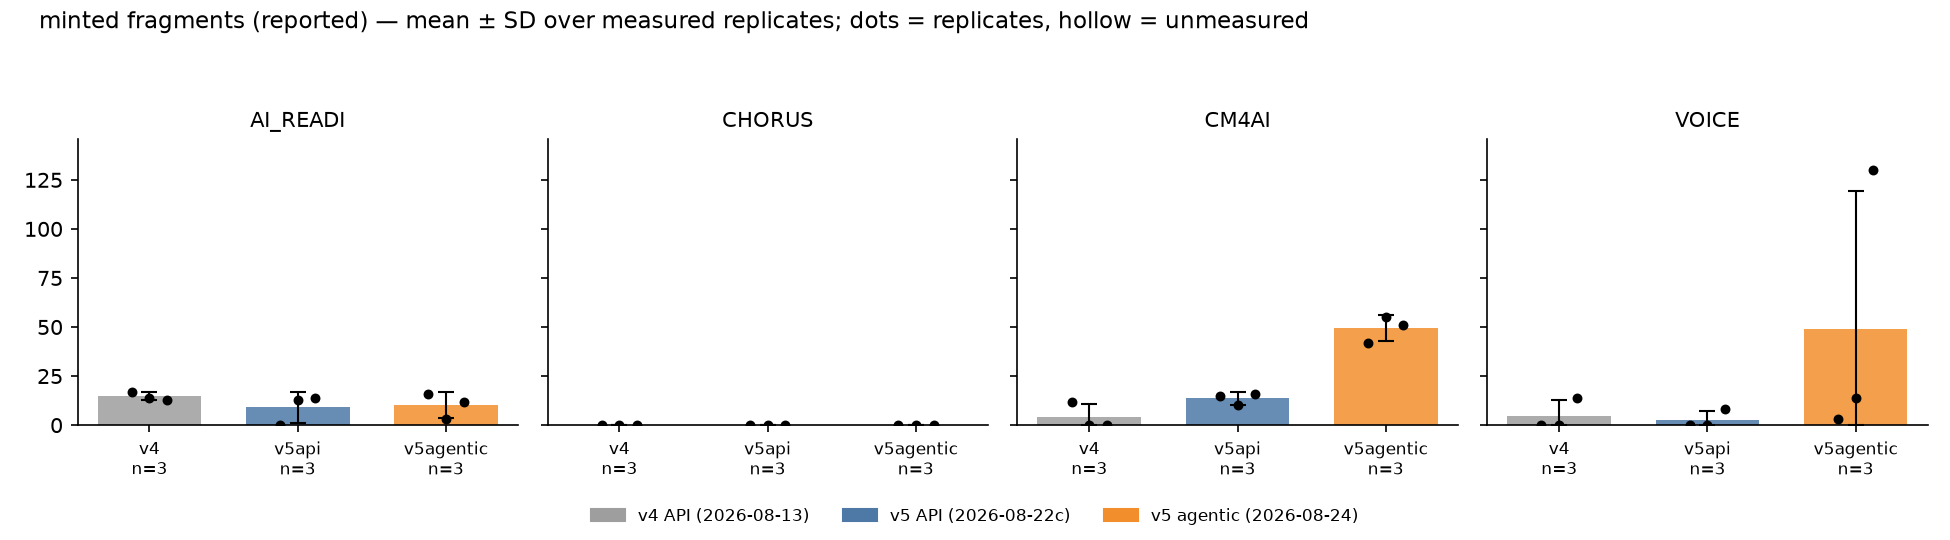
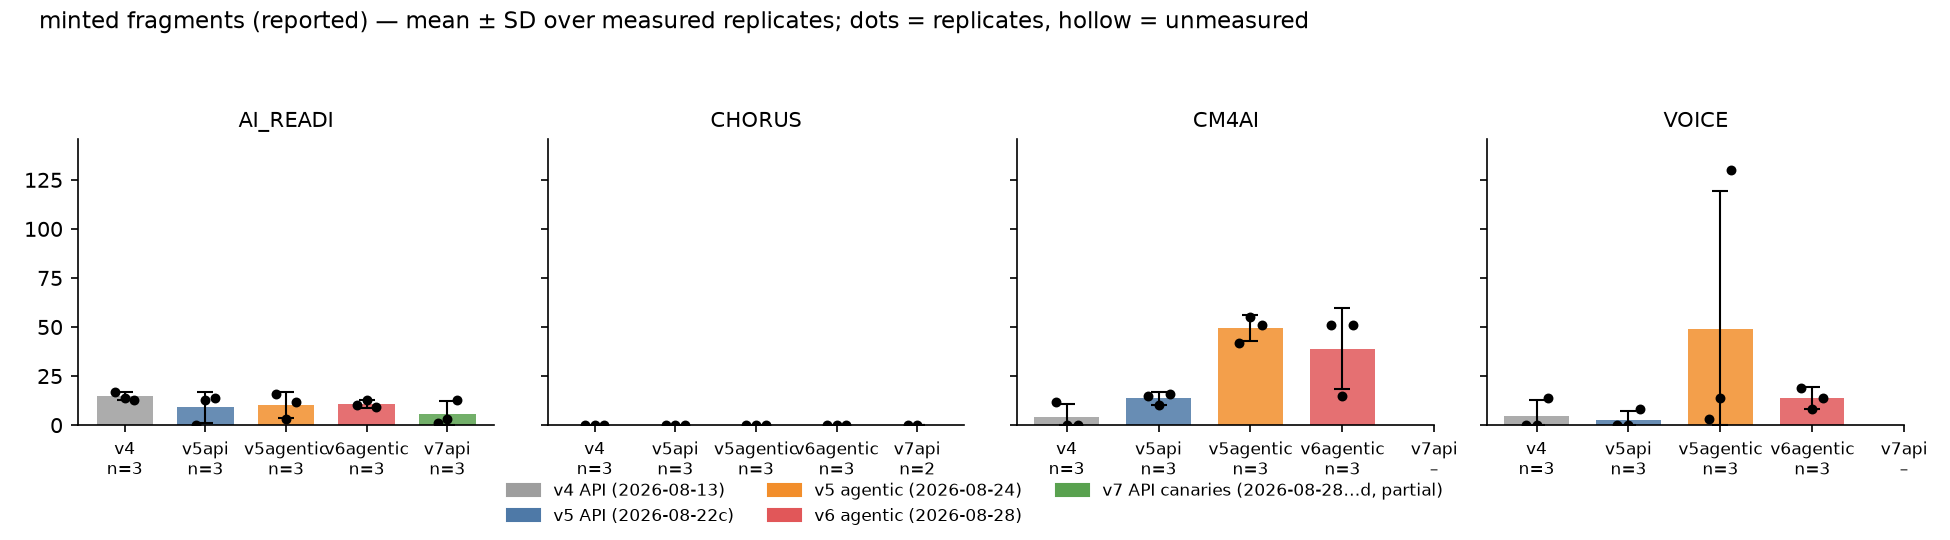
Interpretation of the 2026-08-28 arms: agentic v6 complete, API v7 partial
arm_comparison.py gains the two arms — an explicit label list for the
partial v7 arm (five canaries under four prefixes; n shown, – where a
project has none) — and a populated-leaves metric for the v6 plan's
prediction 5. notes/arm_2026-08-28_interpretation.md reads the tables: the
receipt as a measurement (coverage 100% on both arms; verbatim support
4,208/4,209; attribution exact on the agentic arm, ~96% on the API arm);
agentic v5→v6 (minting outlier gone on VOICE, CM4AI unconverged; leaves
−21%/−24% on CHORUS/CM4AI with two candidate causes the arm cannot
separate; spend +75%); API v5→v7 (pair 0 by derivation, cost $11.2→$8.0
per run, leaves −16%/−23%, full-phase output at the cap); and what is not
here — rubric scores (evaluator quota), the review pass, canonical
selection, the seven deferred v7 runs.

diff --git a/scripts/arm_comparison.py b/scripts/arm_comparison.py
@@ -79,7 +79,21 @@ ARMS = (
      "Claude API via CBORG", "reps"),
     ("v5agentic", "v5 agentic (2026-08-24)",
      "2026-08-24_claude-opus-5-claudecode-generic-v5", "Claude Code", "reps"),
+    ("v6agentic", "v6 agentic (2026-08-28)",
+     "2026-08-28_claude-opus-5-claudecode-generic-v6", "Claude Code", "reps"),
+    # The v7 API arm is partial: five canary runs under four label prefixes
+    # (CHORUS ×2, AI_READI ×3), the fan-out deferred (#777). An explicit label
+    # list, not a prefix; n is 0 for CM4AI and VOICE and the table says so.
+    ("v7api", "v7 API canaries (2026-08-28…d, partial)",
+     ["2026-08-28_claude-opus-5-api-generic-v7_rep1", "2026-08-28b_claude-opus-5-api-generic-v7_rep1",
+      "2026-08-28c_claude-opus-5-api-generic-v7_rep1", "2026-08-28d_claude-opus-5-api-generic-v7_rep1"],
+     "Claude API via CBORG", "reps"),
 )
+
+
+def arm_labels(prefix) -> list[str]:
+    """The run labels an arm spans: `{prefix}_rep{1..3}`, or an explicit list."""
+    return list(prefix) if isinstance(prefix, (list, tuple)) else [f"{prefix}_rep{r}" for r in (1, 2, 3)]
 
 # metric key -> (display, source, higher-is-worse, caveat)
 METRICS: dict[str, tuple[str, str, bool, str]] = {
@@ -112,6 +126,9 @@ METRICS: dict[str, tuple[str, str, bool, str]] = {
     "wrongchunk": ("snippets not in the chunk cited", "record", True,
                    "receipts (#763): verbatim in the bundle but not in the chunk cited — "
                    "attribution precision, reported not gated; ~2% on the v7 API canaries"),
+    "leaves": ("populated leaves (full record)", "record", False,
+               "count of populated leaf values in the full record (receipts.populated_leaves); "
+               "informational — the v6 plan's prediction 5 is that it does not fall"),
     "noreceipt": ("slots without a receipt", "record", True,
                   "receipts (#708): receiptable populated leaves with no receipt; exempt "
                   "slots (runner-set, minted, commentary) are outside the denominator"),
@@ -127,8 +144,7 @@ def load(path: Path) -> dict[str, Any]:
     return yaml.safe_load(path.read_text(encoding="utf-8")) or {}
 
 
-def run_metrics(prefix: str, rep: int, project: str) -> dict[str, Any] | None:
-    label = f"{prefix}_rep{rep}"
+def run_metrics(label: str, project: str) -> dict[str, Any] | None:
     core_dir = CONCAT / f"{METHOD}_core" / label
     full = CONCAT / METHOD / label / f"{project}_d4d.yaml"
     core = core_dir / f"{project}_d4d_core.yaml"
@@ -162,8 +178,11 @@ def run_metrics(prefix: str, rep: int, project: str) -> dict[str, Any] | None:
                         + int((rcp.get("slots") or {}).get("without_receipt_truncated") or 0)}
     else:
         receipt_vals = {"unreviewed": None, "unverified": None, "wrongchunk": None, "noreceipt": None}
+    from data_sheets_schema.receipts import populated_leaves
+    leaves = len(populated_leaves(load(full)))
     return {
         "label": label,
+        "leaves": leaves,
         **receipt_vals,
         "ungrounded": g.get("absent"),
         "minted": g.get("minted_fragment"),
@@ -185,7 +204,7 @@ def rubric_scores(prefix: str, project: str, rubric: str = "rubric10") -> list[d
         return out
     for path in sorted(evals.glob(f"{project}_*_evaluation.json")):
         d = json.loads(path.read_text(encoding="utf-8"))
-        if str(d.get("label", "")).startswith(prefix):
+        if str(d.get("label", "")) in arm_labels(prefix):
             s = d.get("overall_score") or {}
             out.append({"label": d["label"], "total": s.get("total_points"),
                         "max": s.get("max_points"),
@@ -202,7 +221,7 @@ def collect() -> dict[str, dict[str, list[dict[str, Any]]]]:
     for key, _disp, prefix, _rt, _role in ARMS:
         data[key] = {}
         for p in PROJECTS:
-            reps = [m for rep in (1, 2, 3) if (m := run_metrics(prefix, rep, p))]
+            reps = [m for label in arm_labels(prefix) if (m := run_metrics(label, p))]
             data[key][p] = reps
     return data
 
@@ -291,7 +310,7 @@ def write_markdown(data, scores) -> None:
              "judgements, so adjusted maxima can differ between comparable records.",
              "- spend: absent by design — `api_usage` and `run_observed` are different "
              "quantities (#400).", "",
-             "Arms: " + "; ".join(f"**{d}** — `{pfx}_rep{{1,2,3}}`, {rt}"
+             "Arms: " + "; ".join(f"**{d}** — " + (", ".join(f"`{l}`" for l in pfx) if isinstance(pfx, (list, tuple)) else f"`{pfx}_rep{{1,2,3}}`") + f", {rt}"
                                    + (" (also shown with its per-project worst — max for reported-only metrics — the canary-gate baseline)" if role == "worst" else "")
                                    for _k, d, pfx, rt, role in ARMS), ""]
 
@@ -348,7 +367,8 @@ def write_figures(data, scores) -> None:
     import matplotlib.pyplot as plt
 
     OUT_FIG.mkdir(parents=True, exist_ok=True)
-    colors = {"v4": "#9e9e9e", "v5api": "#4e79a7", "v5agentic": "#f28e2b"}
+    colors = {"v4": "#9e9e9e", "v5api": "#4e79a7", "v5agentic": "#f28e2b",
+              "v6agentic": "#e15759", "v7api": "#59a14f"}
 
     # One figure per metric: 4 project panels, one bar per arm = replicate mean,
     # error bar = sample SD (n printed under the bar). Replicates are dots.

diff --git a/notes/arm_comparison.md b/notes/arm_comparison.md
@@ -9,44 +9,64 @@ Generated by `scripts/arm_comparison.py` from the provenance records under `data
 - rubric scores: `data/evaluation_llm/rubric{10,20}_semantic/label_aware/`, same evaluator for every arm shown; N/A exclusions are evaluator judgements, so adjusted maxima can differ between comparable records.
 - spend: absent by design — `api_usage` and `run_observed` are different quantities (#400).
 
-Arms: **v4 API (2026-08-13)** — `2026-08-13_claude-opus-5-api-generic-v4_rep{1,2,3}`, Claude API via CBORG (also shown with its per-project worst — max for reported-only metrics — the canary-gate baseline); **v5 API (2026-08-22c)** — `2026-08-22c_claude-opus-5-api-generic-v5_rep{1,2,3}`, Claude API via CBORG; **v5 agentic (2026-08-24)** — `2026-08-24_claude-opus-5-claudecode-generic-v5_rep{1,2,3}`, Claude Code
+Arms: **v4 API (2026-08-13)** — `2026-08-13_claude-opus-5-api-generic-v4_rep{1,2,3}`, Claude API via CBORG (also shown with its per-project worst — max for reported-only metrics — the canary-gate baseline); **v5 API (2026-08-22c)** — `2026-08-22c_claude-opus-5-api-generic-v5_rep{1,2,3}`, Claude API via CBORG; **v5 agentic (2026-08-24)** — `2026-08-24_claude-opus-5-claudecode-generic-v5_rep{1,2,3}`, Claude Code; **v6 agentic (2026-08-28)** — `2026-08-28_claude-opus-5-claudecode-generic-v6_rep{1,2,3}`, Claude Code; **v7 API canaries (2026-08-28…d, partial)** — `2026-08-28_claude-opus-5-api-generic-v7_rep1`, `2026-08-28b_claude-opus-5-api-generic-v7_rep1`, `2026-08-28c_claude-opus-5-api-generic-v7_rep1`, `2026-08-28d_claude-opus-5-api-generic-v7_rep1`, Claude API via CBORG
 
 ## Deterministic metrics — mean ± SD over replicates
 
-| metric | project | v4 API (2026-08-13) | v5 API (2026-08-22c) | v5 agentic (2026-08-24) |
-|---|---|---|---|---|
-| ungrounded identifiers | AI_READI | 0.0 ± 0.0 [0,0,0] worst 0 | 0.0 ± 0.0 [0,0,0] | 0.0 ± 0.0 [0,0,0] |
-| ungrounded identifiers | CHORUS | 0.0 ± 0.0 [0,0,0] worst 0 | 0.0 ± 0.0 [0,0,0] | 0.0 ± 0.0 [0,0,0] |
-| ungrounded identifiers | CM4AI | 3.3 ± 5.8 [0,0,10] worst 10 | 0.0 ± 0.0 [0,0,0] | 0.0 ± 0.0 [0,0,0] |
-| ungrounded identifiers | VOICE | 6.3 ± 11.0 [19,0,0] worst 19 | 0.0 ± 0.0 [0,0,0] | 0.0 ± 0.0 [0,0,0] |
-| organisational fragments | AI_READI | 0.0 ± 0.0 [0,0,0] worst 0 | 0.0 ± 0.0 [0,0,0] | 0.0 ± 0.0 [0,0,0] |
-| organisational fragments | CHORUS | 0.0 ± 0.0 [0,0,0] worst 0 | 0.0 ± 0.0 [0,0,0] | 0.0 ± 0.0 [0,0,0] |
-| organisational fragments | CM4AI | 0.0 ± 0.0 [0,0,0] worst 0 | 0.0 ± 0.0 [0,0,0] | 0.0 ± 0.0 [0,0,0] |
-| organisational fragments | VOICE | 2.3 ± 4.0 [7,0,0] worst 7 | 0.0 ± 0.0 [0,0,0] | 0.0 ± 0.0 [0,0,0] |
-| undeclared prefixes | AI_READI | 2.0 ± 3.5 [0,6,0] worst 6 | 0.0 ± 0.0 [0,0,0] | 0.0 ± 0.0 [0,0,0] |
-| undeclared prefixes | CHORUS | 76.0 ± 131.6 [228,0,0] worst 228 | 0.0 ± 0.0 [0,0,0] | 0.0 ± 0.0 [0,0,0] |
-| undeclared prefixes | CM4AI | 42.3 ± 43.0 [0,86,41] worst 86 | 0.0 ± 0.0 [0,0,0] | 0.0 ± 0.0 [0,0,0] |
-| undeclared prefixes | VOICE | 0.0 ± 0.0 [0,0,0] worst 0 | 0.0 ± 0.0 [0,0,0] | 0.0 ± 0.0 [0,0,0] |
-| British spellings | AI_READI | 136.7 ± 41.5 [183,103,124] worst 183 | 19.0 ± 18.5 [20,37,0] | 1.3 ± 2.3 [4,0,0] |
-| British spellings | CHORUS | 16.7 ± 5.8 [20,20,10] worst 20 | 0.0 ± 0.0 [0,0,0] | 0.0 ± 0.0 [0,0,0] |
-| British spellings | CM4AI | 19.7 ± 28.9 [53,4,2] worst 53 | 0.0 ± 0.0 [0,0,0] | 1.3 ± 2.3 [0,4,0] |
-| British spellings | VOICE | 47.7 ± 14.0 [32,59,52] worst 59 | 2.7 ± 3.1 [2,0,6] | 2.3 ± 2.1 [3,4,0] |
-| pair errors | AI_READI | 8.0 ± 2.0 [10,8,6] worst 10 | 8.7 ± 8.3 [2,18,6] | 0.0 ± 0.0 [0,0,0] |
-| pair errors | CHORUS | 3.0 ± 3.0 [6,0,3] worst 6 | 1.0 ± 1.0 [1,0,2] | 0.0 ± 0.0 [0,0,0] |
-| pair errors | CM4AI | 6.0 ± 3.0 [6,9,3] worst 9 | 6.0 ± 2.6 [4,5,9] | 0.0 ± 0.0 [0,0,0] |
-| pair errors | VOICE | 6.3 ± 2.5 [9,4,6] worst 9 | 5.7 ± 1.2 [7,5,5] | 0.0 ± 0.0 [0,0,0] |
-| report findings | AI_READI | 1.7 ± 0.6 [2,1,2] worst 2 | 1.0 [0ᵘ,1,0ᵘ] (n=1) | – [0ᵘ,0ᵘ,0ᵘ] |
-| report findings | CHORUS | – [0ᵘ,0ᵘ,0ᵘ] | – [0ᵘ,0ᵘ,0ᵘ] | 0.0 [0ᵘ,0ᵘ,0] (n=1) |
-| report findings | CM4AI | 2.7 ± 1.5 [3,1,4] worst 4 | 2.0 [2,0ᵘ,0ᵘ] (n=1) | – [0ᵘ,0ᵘ,0ᵘ] |
-| report findings | VOICE | 2.0 ± 0.0 [2,2,2] worst 2 | 1.0 ± 0.0 [0ᵘ,1,1] (n=2) | – [0ᵘ,0ᵘ,0ᵘ] |
-| minted fragments (reported) | AI_READI | 14.7 ± 2.1 [17,14,13] worst 17 | 9.0 ± 7.8 [0,13,14] | 10.3 ± 6.7 [16,3,12] |
-| minted fragments (reported) | CHORUS | 0.0 ± 0.0 [0,0,0] worst 0 | 0.0 ± 0.0 [0,0,0] | 0.0 ± 0.0 [0,0,0] |
-| minted fragments (reported) | CM4AI | 4.0 ± 6.9 [12,0,0] worst 12 | 13.7 ± 3.2 [15,10,16] | 49.3 ± 6.7 [42,55,51] |
-| minted fragments (reported) | VOICE | 4.7 ± 8.1 [0,0,14] worst 14 | 2.7 ± 4.6 [0,0,8] | 49.0 ± 70.4 [3,14,130] |
-| GC label variants (reported) | AI_READI | 0.0 ± 0.0 [0,0,0] worst 0 | 0.3 ± 0.6 [1,0,0] | 0.0 ± 0.0 [0,0,0] |
-| GC label variants (reported) | CHORUS | 0.0 ± 0.0 [0,0,0] worst 0 | 0.0 ± 0.0 [0,0,0] | 0.0 ± 0.0 [0,0,0] |
-| GC label variants (reported) | CM4AI | 0.0 ± 0.0 [0,0,0] worst 0 | 0.0 ± 0.0 [0,0,0] | 0.0 ± 0.0 [0,0,0] |
-| GC label variants (reported) | VOICE | 59.0 ± 3.5 [57,57,63] worst 63 | 65.7 ± 11.0 [53,71,73] | 36.7 ± 5.8 [40,40,30] |
+| metric | project | v4 API (2026-08-13) | v5 API (2026-08-22c) | v5 agentic (2026-08-24) | v6 agentic (2026-08-28) | v7 API canaries (2026-08-28…d, partial) |
+|---|---|---|---|---|---|---|
+| ungrounded identifiers | AI_READI | 0.0 ± 0.0 [0,0,0] worst 0 | 0.0 ± 0.0 [0,0,0] | 0.0 ± 0.0 [0,0,0] | 0.0 ± 0.0 [0,0,0] | 0.0 ± 0.0 [0,0,0] |
+| ungrounded identifiers | CHORUS | 0.0 ± 0.0 [0,0,0] worst 0 | 0.0 ± 0.0 [0,0,0] | 0.0 ± 0.0 [0,0,0] | 0.0 ± 0.0 [0,0,0] | 0.0 ± 0.0 [0,0] |
+| ungrounded identifiers | CM4AI | 3.3 ± 5.8 [0,0,10] worst 10 | 0.0 ± 0.0 [0,0,0] | 0.0 ± 0.0 [0,0,0] | 0.0 ± 0.0 [0,0,0] | – |
+| ungrounded identifiers | VOICE | 6.3 ± 11.0 [19,0,0] worst 19 | 0.0 ± 0.0 [0,0,0] | 0.0 ± 0.0 [0,0,0] | 0.0 ± 0.0 [0,0,0] | – |
+| organisational fragments | AI_READI | 0.0 ± 0.0 [0,0,0] worst 0 | 0.0 ± 0.0 [0,0,0] | 0.0 ± 0.0 [0,0,0] | 0.0 ± 0.0 [0,0,0] | 0.3 ± 0.6 [1,0,0] |
+| organisational fragments | CHORUS | 0.0 ± 0.0 [0,0,0] worst 0 | 0.0 ± 0.0 [0,0,0] | 0.0 ± 0.0 [0,0,0] | 0.0 ± 0.0 [0,0,0] | 0.0 ± 0.0 [0,0] |
+| organisational fragments | CM4AI | 0.0 ± 0.0 [0,0,0] worst 0 | 0.0 ± 0.0 [0,0,0] | 0.0 ± 0.0 [0,0,0] | 0.0 ± 0.0 [0,0,0] | – |
+| organisational fragments | VOICE | 2.3 ± 4.0 [7,0,0] worst 7 | 0.0 ± 0.0 [0,0,0] | 0.0 ± 0.0 [0,0,0] | 0.0 ± 0.0 [0,0,0] | – |
+| undeclared prefixes | AI_READI | 2.0 ± 3.5 [0,6,0] worst 6 | 0.0 ± 0.0 [0,0,0] | 0.0 ± 0.0 [0,0,0] | 0.0 ± 0.0 [0,0,0] | 0.0 ± 0.0 [0,0,0] |
+| undeclared prefixes | CHORUS | 76.0 ± 131.6 [228,0,0] worst 228 | 0.0 ± 0.0 [0,0,0] | 0.0 ± 0.0 [0,0,0] | 0.0 ± 0.0 [0,0,0] | 0.0 ± 0.0 [0,0] |
+| undeclared prefixes | CM4AI | 42.3 ± 43.0 [0,86,41] worst 86 | 0.0 ± 0.0 [0,0,0] | 0.0 ± 0.0 [0,0,0] | 0.7 ± 1.2 [2,0,0] | – |
+| undeclared prefixes | VOICE | 0.0 ± 0.0 [0,0,0] worst 0 | 0.0 ± 0.0 [0,0,0] | 0.0 ± 0.0 [0,0,0] | 0.0 ± 0.0 [0,0,0] | – |
+| British spellings | AI_READI | 136.7 ± 41.5 [183,103,124] worst 183 | 19.0 ± 18.5 [20,37,0] | 1.3 ± 2.3 [4,0,0] | 0.0 ± 0.0 [0,0,0] | 18.3 ± 8.3 [25,9,21] |
+| British spellings | CHORUS | 16.7 ± 5.8 [20,20,10] worst 20 | 0.0 ± 0.0 [0,0,0] | 0.0 ± 0.0 [0,0,0] | 0.0 ± 0.0 [0,0,0] | 0.0 ± 0.0 [0,0] |
+| British spellings | CM4AI | 19.7 ± 28.9 [53,4,2] worst 53 | 0.0 ± 0.0 [0,0,0] | 1.3 ± 2.3 [0,4,0] | 0.7 ± 1.2 [0,2,0] | – |
+| British spellings | VOICE | 47.7 ± 14.0 [32,59,52] worst 59 | 2.7 ± 3.1 [2,0,6] | 2.3 ± 2.1 [3,4,0] | 11.7 ± 20.2 [0,35,0] | – |
+| pair errors | AI_READI | 8.0 ± 2.0 [10,8,6] worst 10 | 8.7 ± 8.3 [2,18,6] | 0.0 ± 0.0 [0,0,0] | 0.0 ± 0.0 [0,0,0] | 0.0 ± 0.0 [0,0,0] |
+| pair errors | CHORUS | 3.0 ± 3.0 [6,0,3] worst 6 | 1.0 ± 1.0 [1,0,2] | 0.0 ± 0.0 [0,0,0] | 0.0 ± 0.0 [0,0,0] | 0.0 ± 0.0 [0,0] |
+| pair errors | CM4AI | 6.0 ± 3.0 [6,9,3] worst 9 | 6.0 ± 2.6 [4,5,9] | 0.0 ± 0.0 [0,0,0] | 0.0 ± 0.0 [0,0,0] | – |
+| pair errors | VOICE | 6.3 ± 2.5 [9,4,6] worst 9 | 5.7 ± 1.2 [7,5,5] | 0.0 ± 0.0 [0,0,0] | 0.0 ± 0.0 [0,0,0] | – |
+| report findings | AI_READI | 1.7 ± 0.6 [2,1,2] worst 2 | 1.0 [0ᵘ,1,0ᵘ] (n=1) | – [0ᵘ,0ᵘ,0ᵘ] | – [0ᵘ,0ᵘ,0ᵘ] | – [0ᵘ,0ᵘ,0ᵘ] |
+| report findings | CHORUS | – [0ᵘ,0ᵘ,0ᵘ] | – [0ᵘ,0ᵘ,0ᵘ] | 0.0 [0ᵘ,0ᵘ,0] (n=1) | – [0ᵘ,0ᵘ,0ᵘ] | – [0ᵘ,0ᵘ] |
+| report findings | CM4AI | 2.7 ± 1.5 [3,1,4] worst 4 | 2.0 [2,0ᵘ,0ᵘ] (n=1) | – [0ᵘ,0ᵘ,0ᵘ] | 0.0 [0ᵘ,0ᵘ,0] (n=1) | – |
+| report findings | VOICE | 2.0 ± 0.0 [2,2,2] worst 2 | 1.0 ± 0.0 [0ᵘ,1,1] (n=2) | – [0ᵘ,0ᵘ,0ᵘ] | 0.0 [0ᵘ,0,0ᵘ] (n=1) | – |
+| minted fragments (reported) | AI_READI | 14.7 ± 2.1 [17,14,13] worst 17 | 9.0 ± 7.8 [0,13,14] | 10.3 ± 6.7 [16,3,12] | 10.7 ± 2.1 [10,13,9] | 5.7 ± 6.4 [1,3,13] |
+| minted fragments (reported) | CHORUS | 0.0 ± 0.0 [0,0,0] worst 0 | 0.0 ± 0.0 [0,0,0] | 0.0 ± 0.0 [0,0,0] | 0.0 ± 0.0 [0,0,0] | 0.0 ± 0.0 [0,0] |
+| minted fragments (reported) | CM4AI | 4.0 ± 6.9 [12,0,0] worst 12 | 13.7 ± 3.2 [15,10,16] | 49.3 ± 6.7 [42,55,51] | 39.0 ± 20.8 [51,15,51] | – |
+| minted fragments (reported) | VOICE | 4.7 ± 8.1 [0,0,14] worst 14 | 2.7 ± 4.6 [0,0,8] | 49.0 ± 70.4 [3,14,130] | 13.7 ± 5.5 [19,8,14] | – |
+| chunks unreviewed | AI_READI | – [–,–,–] | – [–,–,–] | – [–,–,–] | 0.0 ± 0.0 [0,0,0] | 0.0 ± 0.0 [0,0,0] |
+| chunks unreviewed | CHORUS | – [–,–,–] | – [–,–,–] | – [–,–,–] | 0.0 ± 0.0 [0,0,0] | 0.0 ± 0.0 [0,0] |
+| chunks unreviewed | CM4AI | – [–,–,–] | – [–,–,–] | – [–,–,–] | 0.0 ± 0.0 [0,0,0] | – |
+| chunks unreviewed | VOICE | – [–,–,–] | – [–,–,–] | – [–,–,–] | 0.0 ± 0.0 [0,0,0] | – |
+| snippets unverified | AI_READI | – [–,–,–] | – [–,–,–] | – [–,–,–] | 0.0 ± 0.0 [0,0,0] | 0.7 ± 0.6 [1,1,0] |
+| snippets unverified | CHORUS | – [–,–,–] | – [–,–,–] | – [–,–,–] | 0.0 ± 0.0 [0,0,0] | 0.0 ± 0.0 [0,0] |
+| snippets unverified | CM4AI | – [–,–,–] | – [–,–,–] | – [–,–,–] | 0.0 ± 0.0 [0,0,0] | – |
+| snippets unverified | VOICE | – [–,–,–] | – [–,–,–] | – [–,–,–] | 0.0 ± 0.0 [0,0,0] | – |
+| snippets not in the chunk cited | AI_READI | – [–,–,–] | – [–,–,–] | – [–,–,–] | 0.0 ± 0.0 [0,0,0] | 9.7 ± 2.1 [9,8,12] |
+| snippets not in the chunk cited | CHORUS | – [–,–,–] | – [–,–,–] | – [–,–,–] | 0.0 ± 0.0 [0,0,0] | 2.0 ± 0.0 [2,2] |
+| snippets not in the chunk cited | CM4AI | – [–,–,–] | – [–,–,–] | – [–,–,–] | 0.0 ± 0.0 [0,0,0] | – |
+| snippets not in the chunk cited | VOICE | – [–,–,–] | – [–,–,–] | – [–,–,–] | 0.0 ± 0.0 [0,0,0] | – |
+| populated leaves (full record) | AI_READI | 642.3 ± 98.9 [748,552,627] worst 748 | 674.3 ± 123.9 [594,817,612] | 641.3 ± 38.1 [649,675,600] | 603.3 ± 56.8 [667,558,585] | 521.7 ± 141.6 [446,434,685] |
+| populated leaves (full record) | CHORUS | 265.0 ± 68.7 [342,210,243] worst 342 | 241.7 ± 48.3 [220,208,297] | 287.3 ± 37.9 [299,245,318] | 227.7 ± 46.4 [197,281,205] | 202.0 ± 9.9 [209,195] |
+| populated leaves (full record) | CM4AI | 555.0 ± 127.4 [415,664,586] worst 664 | 444.7 ± 57.3 [489,465,380] | 928.0 ± 84.2 [835,999,950] | 706.0 ± 190.5 [765,493,860] | – |
+| populated leaves (full record) | VOICE | 567.3 ± 36.5 [577,598,527] worst 598 | 450.3 ± 62.1 [417,522,412] | 542.7 ± 93.5 [545,448,635] | 545.7 ± 79.5 [617,460,560] | – |
+| slots without a receipt | AI_READI | – [–,–,–] | – [–,–,–] | – [–,–,–] | 312.0 ± 20.1 [291,314,331] | 310.7 ± 146.0 [234,219,479] |
+| slots without a receipt | CHORUS | – [–,–,–] | – [–,–,–] | – [–,–,–] | 82.7 ± 23.2 [104,58,86] | 112.5 ± 0.7 [112,113] |
+| slots without a receipt | CM4AI | – [–,–,–] | – [–,–,–] | – [–,–,–] | 270.0 ± 234.6 [508,263,39] | – |
+| slots without a receipt | VOICE | – [–,–,–] | – [–,–,–] | – [–,–,–] | 344.0 ± 99.7 [447,248,337] | – |
+| GC label variants (reported) | AI_READI | 0.0 ± 0.0 [0,0,0] worst 0 | 0.3 ± 0.6 [1,0,0] | 0.0 ± 0.0 [0,0,0] | 0.7 ± 1.2 [2,0,0] | 0.0 ± 0.0 [0,0,0] |
+| GC label variants (reported) | CHORUS | 0.0 ± 0.0 [0,0,0] worst 0 | 0.0 ± 0.0 [0,0,0] | 0.0 ± 0.0 [0,0,0] | 0.0 ± 0.0 [0,0,0] | 0.0 ± 0.0 [0,0] |
+| GC label variants (reported) | CM4AI | 0.0 ± 0.0 [0,0,0] worst 0 | 0.0 ± 0.0 [0,0,0] | 0.0 ± 0.0 [0,0,0] | 0.0 ± 0.0 [0,0,0] | – |
+| GC label variants (reported) | VOICE | 59.0 ± 3.5 [57,57,63] worst 63 | 65.7 ± 11.0 [53,71,73] | 36.7 ± 5.8 [40,40,30] | 52.7 ± 21.9 [60,70,28] | – |
 
 Cells are mean ± sample SD over the *measured* replicates, with every replicate value in brackets; n is 3 unless stated. The baseline arm adds its per-project worst, the value the canary gate holds runs against. Read the SD as a spread, not a confidence interval: with n = 3 and one outlier (e.g. [3,14,130]) the SD is that outlier, and the bracketed values are the better summary. ᵘ = unmeasured — the report-claims checker parsed zero claims (#684); unmeasured values are excluded from the mean and n, and a cell with no measured replicate shows only its raw values.
 
@@ -59,24 +79,29 @@ Cells are mean ± sample SD over the *measured* replicates, with every replicate
 - **pair errors** — record block. deterministic artifact check, comparable across arms; the procedures that reduce it differ by runtime (#689) and it is coupled with British spellings (#675).
 - **report findings** — record block. claims_checked counts backticked removal claims only; false-schema-claim findings come from a separate scan that counts nothing. A 0 with claims_checked 0 is therefore unmeasured on the removal form, not held (#684) — shown as 0ᵘ; any finding > 0 is measured.
 - **minted fragments (reported)** — record block. reported-only; every fragment hangs off an attested base wherever ungrounded is 0. Appetite varies 3→130 within one project (#685).
+- **chunks unreviewed** — record block. receipts (#708): manifest chunks with no receipt entry. Only arms whose procedure wrote a coverage receipt carry a value; earlier arms are –, not 0.
+- **snippets unverified** — record block. receipts (#708): mismatched + unchecked snippets; same caveat.
+- **snippets not in the chunk cited** — record block. receipts (#763): verbatim in the bundle but not in the chunk cited — attribution precision, reported not gated; ~2% on the v7 API canaries.
+- **populated leaves (full record)** — record block. count of populated leaf values in the full record (receipts.populated_leaves); informational — the v6 plan's prediction 5 is that it does not fall.
+- **slots without a receipt** — record block. receipts (#708): receiptable populated leaves with no receipt; exempt slots (runner-set, minted, commentary) are outside the denominator.
 - **GC label variants (reported)** — live recompute, current instrument. reported-only; counted against the manifest naming declaration decided 2026-08-22, so anachronistic for the v4 arm and same-day for 22c. For VOICE the count is the dataset's own PhysioNet title, lawful under the proper-noun carve-out (#674).
 
 ## Rubric10-semantic scores (canonical / would-be canonical records only; n = 1 per arm and project, so no SD)
 
-| project | v4 API (2026-08-13) | v5 API (2026-08-22c) | v5 agentic (2026-08-24) |
-|---|---|---|---|
-| AI_READI | – | 49/50 (98.0%, rep2) | 48/50 (96.0%, rep2) |
-| CHORUS | – | 36/49 (73.5%, rep3) | 32/49 (65.3%, rep1) |
-| CM4AI | – | 47/50 (94.0%, rep1) | 47/50 (94.0%, rep2) |
-| VOICE | – | 50/50 (100.0%, rep2) | 49/50 (98.0%, rep1) |
+| project | v4 API (2026-08-13) | v5 API (2026-08-22c) | v5 agentic (2026-08-24) | v6 agentic (2026-08-28) | v7 API canaries (2026-08-28…d, partial) |
+|---|---|---|---|---|---|
+| AI_READI | – | 49/50 (98.0%, rep2) | 48/50 (96.0%, rep2) | – | – |
+| CHORUS | – | 36/49 (73.5%, rep3) | 32/49 (65.3%, rep1) | – | – |
+| CM4AI | – | 47/50 (94.0%, rep1) | 47/50 (94.0%, rep2) | – | – |
+| VOICE | – | 50/50 (100.0%, rep2) | 49/50 (98.0%, rep1) | – | – |
 
 ## Rubric20-semantic scores (canonical / would-be canonical records only; n = 1 per arm and project, so no SD)
 
-| project | v4 API (2026-08-13) | v5 API (2026-08-22c) | v5 agentic (2026-08-24) |
-|---|---|---|---|
-| AI_READI | – | 81/88 (92.0%, rep2) | 79/88 (89.8%, rep2) |
-| CHORUS | – | 60/88 (68.2%, rep3) | 59/88 (67.0%, rep1) |
-| CM4AI | – | 70/78 (89.7%, rep1) | 66/78 (84.6%, rep2) |
-| VOICE | – | 81/88 (92.0%, rep2) | 78/88 (88.6%, rep1) |
+| project | v4 API (2026-08-13) | v5 API (2026-08-22c) | v5 agentic (2026-08-24) | v6 agentic (2026-08-28) | v7 API canaries (2026-08-28…d, partial) |
+|---|---|---|---|---|---|
+| AI_READI | – | 81/88 (92.0%, rep2) | 79/88 (89.8%, rep2) | – | – |
+| CHORUS | – | 60/88 (68.2%, rep3) | 59/88 (67.0%, rep1) | – | – |
+| CM4AI | – | 70/78 (89.7%, rep1) | 66/78 (84.6%, rep2) | – | – |
+| VOICE | – | 81/88 (92.0%, rep2) | 78/88 (88.6%, rep1) | – | – |
 
 Evaluator model(s) recorded: claude-fable-5. Scores are shown as points / adjusted maximum after N/A exclusions; raw points are comparable within a rubric, percentages are denominator-sensitive. No gold standard exists (#177); the rubrics are not domain-neutral (#627); rubric20's N/A convention is #155's.

diff --git a/notes/arm_2026-08-28_interpretation.md b/notes/arm_2026-08-28_interpretation.md
@@ -1,0 +1,125 @@
+# What the 2026-08-28 arms say: agentic v6 (complete) and API v7 (partial)
+
+Written 2026-08-30 from `notes/arm_comparison.md` (regenerated), the run
+records, and the first `d4d-review-record` review. Two arms are new since
+the 2026-08-24 analysis:
+
+- **v6 agentic** — 12/12 runs, condition `generic_v6` (v5 + the minting
+  density norm) under the receipt protocol (#709) and the derived core.
+- **v7 API — partial** — five canary runs (CHORUS ×2, AI_READI ×3) under
+  `generic_v7` (v6 + the receipt rule); the fan-out of the remaining runs is
+  deferred to 2026-08-31 after two nights of proxy stalls in the 02:00–10:00
+  UTC window (#777). Every v7 number below is n=2 or n=3, and CM4AI and VOICE
+  have none.
+
+Comparisons are against **v5 API (2026-08-22c)** and **v5 agentic
+(2026-08-24)**, both n=3 per project. Mean ± SD over replicates; the
+replicate values are in `notes/arm_comparison.md`.
+
+## 1. The receipt, as a measurement
+
+The first thing the two arms establish is that coverage and support are
+now *measured* rather than inferred:
+
+| | v5 agentic | v6 agentic | v7 API (partial) |
+|---|---|---|---|
+| bundle chunks reviewed | ~80% of AI_READI/CM4AI/VOICE by transcript forensics (#700) | **100%**, 12/12, by receipt + transcript cross-check | 100% by construction (bundle in context; receipt 28/28, 8/8) |
+| snippets verbatim in the bundle | not measured | **3,400 / 3,400** | 1 non-verbatim in 809 (a paraphrase, 28c AI_READI) |
+| snippets in the chunk cited | not measured | 3,400 / 3,400 | **~96%**: 9.7 ± 2.1 of ~220 on AI_READI and 2 of ~105 on CHORUS cite the neighbouring chunk |
+| slots receipted (of receiptable leaves) | — | 45–95% by run | 40–70% |
+
+Reading: the agentic protocol — read a chunk, write its entry, move on —
+produces exact attribution; the API arm, holding the whole bundle in one
+context, mis-attributes ~3–4% of its quotes to the chunk next door, always
+at or near a boundary. Support (is the text in the bundle at all) is
+essentially perfect on both arms: one paraphrase in 4,209 snippets. The
+receipted-slot fraction is similar across arms and low in both — a model
+receipts the leaf it copied from, and sibling leaves of the same entry go
+unreceipted. That is a reporting convention, not missing evidence, but it
+means "slots with a receipt" is not yet a coverage-of-record number.
+
+Everything the receipt cannot see is what the first `d4d-review-record`
+review found on CHORUS v6 rep1 (66 items: 6 adverse — 2 verbatim snippets
+that do not answer their slot, 1 inferred value, 3 rule violations). A
+record every deterministic gate called clean carried them. That review is
+one record; the arm-wide review pass is the next evaluation step.
+
+## 2. Agentic v5 → v6: what the one rule and the protocol changed
+
+| metric | v5 agentic | v6 agentic | reading |
+|---|---|---|---|
+| ungrounded identifiers | 0 on 12/12 | 0 on 12/12 | held |
+| pair errors | 0 (derived core) | 0 | held by construction |
+| minted fragments, VOICE | 49 ± 70 [3, 14, 130] | **13.7 ± 5.5 [19, 8, 14]** | the norm removed the 130 outlier; spread 127 → 11 |
+| minted fragments, CM4AI | 49.3 ± 6.7 [42, 55, 51] | 39 ± 20.8 [51, 15, 51] | did not converge; two runs minted as before |
+| minted fragments, AI_READI / CHORUS | 10.3 / 0 | 10.7 / 0 | unchanged |
+| British spellings | ≤ 4 on every run | 0 on 11 runs, **35** on VOICE rep2 | one outlier run; the arm is otherwise cleaner |
+| undeclared prefixes | 0 | 2 on CM4AI rep1 (one `mailto:` URI) | one run |
+| populated leaves, AI_READI | 641 ± 38 | 603 ± 57 | −6% |
+| populated leaves, CHORUS | 287 ± 38 | **228 ± 46** | −21% |
+| populated leaves, CM4AI | 928 ± 84 | **706 ± 191** | −24% |
+| populated leaves, VOICE | 543 ± 94 | 546 ± 80 | unchanged |
+| spend (Mtok, transcript) | 216.6 (388 min) | **378.7 (599 min)** | +75% tokens, +54% wall |
+
+Predictions of `notes/generic_v6_analysis_plan.md`: 2, 3, 6 held; 1 half
+(VOICE yes, CM4AI no); 4 falsified once (VOICE rep2). **Prediction 5 —
+populated slots should not fall — is the one to take seriously.** Leaves
+fell by a fifth on CHORUS and CM4AI. Two candidate causes, and the arm
+cannot separate them: the minting norm removed parts that were only
+labelled (CM4AI minted 51/15/51 — the run that minted 15 is the one with
+493 leaves against 765 and 860), and the receipt protocol makes every value
+cost a verbatim quote, which discourages the inferred and restated values
+v5 carried freely. The CHORUS review's adverse items (inferred
+`scope_impact`, award period standing in for a collection timeframe) are
+exactly the kind of value that v5 had more of and v6 still has some of; on
+this evidence the fall is at least partly the removal of content the rules
+never allowed, not a loss of support. A per-slot diff of a v5 and a v6 CHORUS
+record against the bundle would settle it and is the right next review.
+
+The cost is the protocol: reading 28 chunks one call at a time and writing
+28 receipt entries is ~1.75× the tokens of v5's reading. It buys the top
+table.
+
+## 3. API v5 → v7 (partial): what the receipt rule changed
+
+| metric | v5 API (22c) | v7 API canaries | reading |
+|---|---|---|---|
+| pair errors, AI_READI / CHORUS | 8.7 ± 8.3 / 1.0 ± 1.0 | **0 / 0** | the derived core (#694), a procedure change that landed between the arms |
+| British spellings, AI_READI | 19 ± 18.5 | 18.3 ± 8.3 | unchanged; the v5 rule is not reaching AI_READI on either arm |
+| minted, AI_READI | 9.0 ± 7.8 | 5.7 ± 6.4 | within spread |
+| organisational fragments / resolver URLs | 0 | one run (28b) had 1 and 2; the re-canaries 0 | one-run noise, not systematic |
+| populated leaves, AI_READI | 674 ± 124 | **522 ± 142** [446, 434, 685] | −23%, high variance |
+| populated leaves, CHORUS | 242 ± 48 | 202 ± 10 | −16% |
+| cost per run (CBORG rates) | $11.2 mean (9 calls) | **$8.0** (6–7 calls) | the two generated core phases are gone; the receipt adds ~9k output tokens |
+| full-phase output, AI_READI | 55–74k | **72–96k** (thinking ~70% of it) | hit the 96k cap once; raised to 128k for receipt conditions (#768) |
+
+The leaves fall on the API arm too, and the mechanism there is visible in
+the token accounting: the `full` phase writes the record *and* the receipt
+in one output budget that thinking already fills to ~70%, and AI_READI's
+first attempt truncated at the cap. Whether the leaner records are leaner
+in unsupported content (as the rules intend) or in supported content (a
+budget effect) is, again, a per-slot question the review agent can answer
+and the gate cannot.
+
+## 4. Across the arms
+
+With a receipt on both sides, the first like-for-like cross-arm statement
+is possible: on the same bundles, under the same rules, **the agentic arm
+quotes with exact attribution and the API arm with ~96% attribution; both
+quote verbatim; the agentic arm carries ~15% more populated leaves on
+AI_READI and ~13% on CHORUS, at roughly 5× the token spend** (378.7 Mtok
+subscription tokens for 12 runs against ~$8 × 12 ≈ $96 of metered API
+spend — different quantities, not a cost comparison, #400). Report-claims
+findings are 0ᵘ on nearly every run of every arm (#684): still unmeasured.
+
+## 5. What is not here
+
+- **Rubric10/rubric20-semantic scores** for the new arms: the evaluator
+  subagents hit the account's weekly limit on 2026-08-30 (resets 2026-09-01);
+  `notes/arm_comparison.md` shows the rubric rows for v4/v5 only. To be run
+  with the fan-out.
+- **The arm-wide review pass** (`d4d-review-record` on all 12 v6 runs and the
+  v7 canaries) — one record reviewed so far.
+- **Canonical selection** for v6 (safe since #677) — after the review pass.
+- The v7 arm's other 7 runs, and with them any v7 statement about CM4AI and
+  VOICE.
